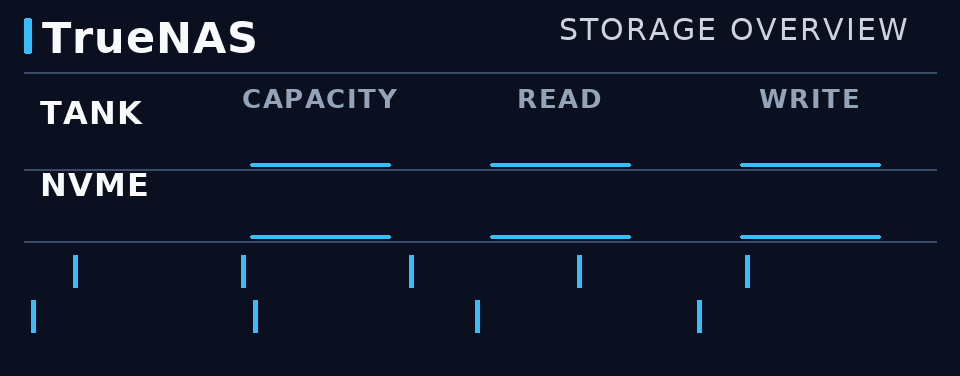
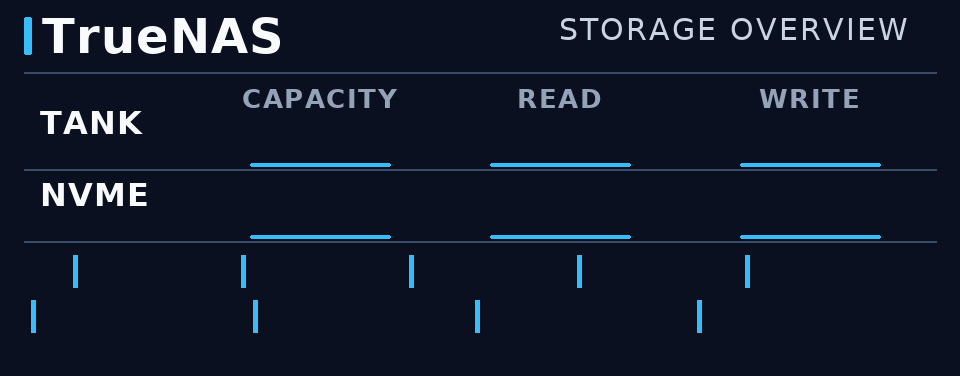
Move TANK/NVME row labels down 10px; enlarge TrueNAS header label
- Row labels 124/196 -> 134/206. Still 6px real clearance to the
  capacity-detail text below each (verified with tools/pixel-probe).
- "TrueNAS" header label 43pt -> 48pt, and its accent bar's y-span
  recomputed from the real ink bbox at the new size (17-54, was 18-53)
  so it still exactly brackets the taller text instead of being left at
  its old height.

Changed region(s): [[0.0312, 0.0293, 0.3125, 0.1463], [0.0312, 0.4388, 0.1562, 0.5559], [0.0312, 0.2633, 0.1562, 0.3511]]

diff --git a/scripts/render-storage-bg.py b/scripts/render-storage-bg.py
@@ -54,9 +54,13 @@ def draw_spaced(xy, text, font, fill, spacing=0, anchor_end=False, anchor_middle
         cx += w + spacing
 
 
-# Header
-d.rounded_rectangle((24, 18, 24 + 7, 18 + 35), radius=2, fill=ACCENT)
-draw_spaced((42, 53), "TrueNAS", bold(43), WHITE, spacing=1)
+# Header. TrueNAS label bumped 43->48pt (2026-08-17); accent bar's y-span
+# recomputed from the real ink bbox at the new size (PIL font.getbbox,
+# exact since this is a static draw_spaced call, not an asterctl dynamic
+# field) rather than left at its old height, so it still exactly brackets
+# the (now taller) text as asked.
+d.rounded_rectangle((24, 17, 24 + 7, 17 + 37), radius=2, fill=ACCENT)
+draw_spaced((42, 53), "TrueNAS", bold(48), WHITE, spacing=1)
 draw_spaced((910, 40), "STORAGE OVERVIEW", reg(30), PAGE_LABEL, spacing=2, anchor_end=True)
 d.line((24, 72, 936, 72), fill=DIVIDER, width=2)
 
@@ -156,9 +160,13 @@ HEADER_Y = 108
 for text, x in COL_X.items():
     draw_spaced((x, HEADER_Y), text, col_header_font, LABEL, spacing=1.5, anchor_middle=True)
 
+# 16th pass (2026-08-17): row labels moved down 10px (134/206, was
+# 124/196) -- still 6px real clearance to the capacity-detail text below
+# each (dynamic monitor.json field, unmoved), matching other verified-safe
+# junctions in this layout.
 for row_label, label_y, bar_y, divider_y in (
-    ("TANK", 124, 163, 169),
-    ("NVME", 196, 235, 241),
+    ("TANK", 134, 163, 169),
+    ("NVME", 206, 235, 241),
 ):
     draw_spaced((40, label_y), row_label, row_label_font, WHITE, spacing=1)
     for x in COL_X.values():
